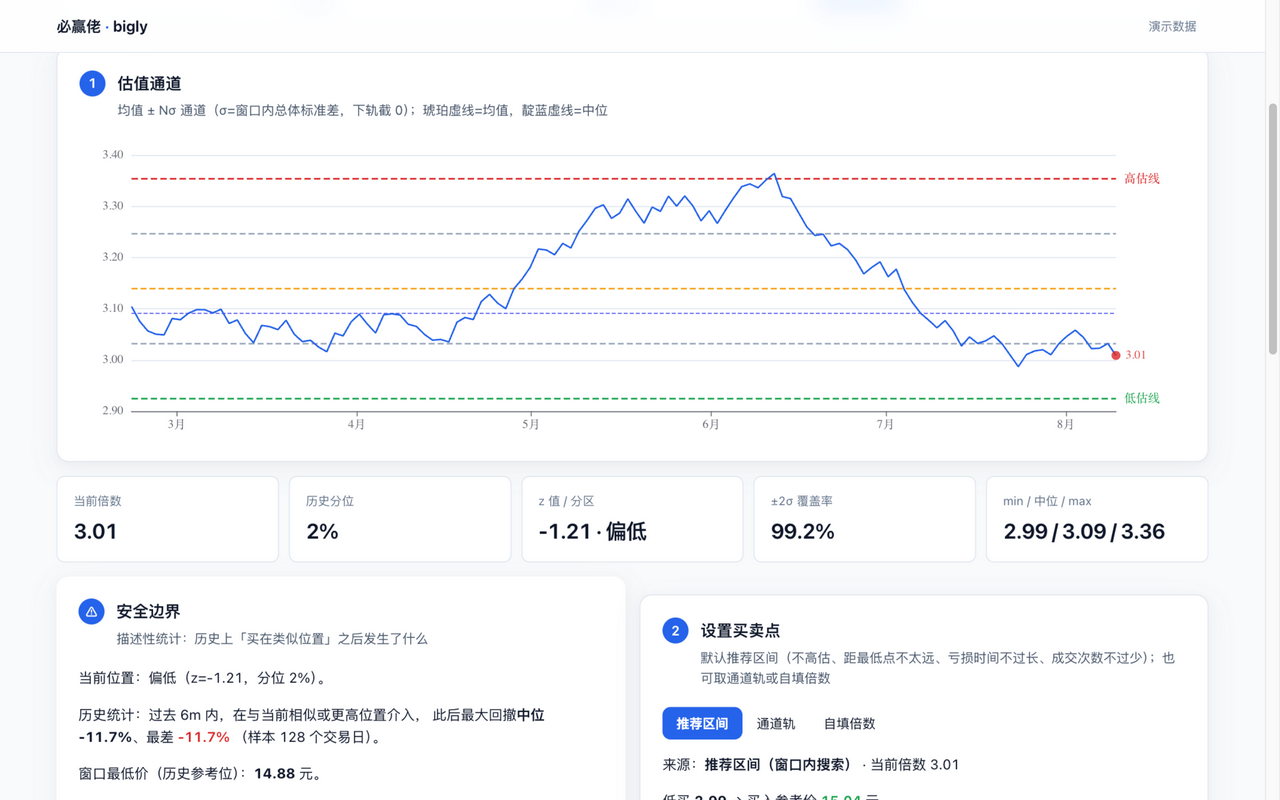
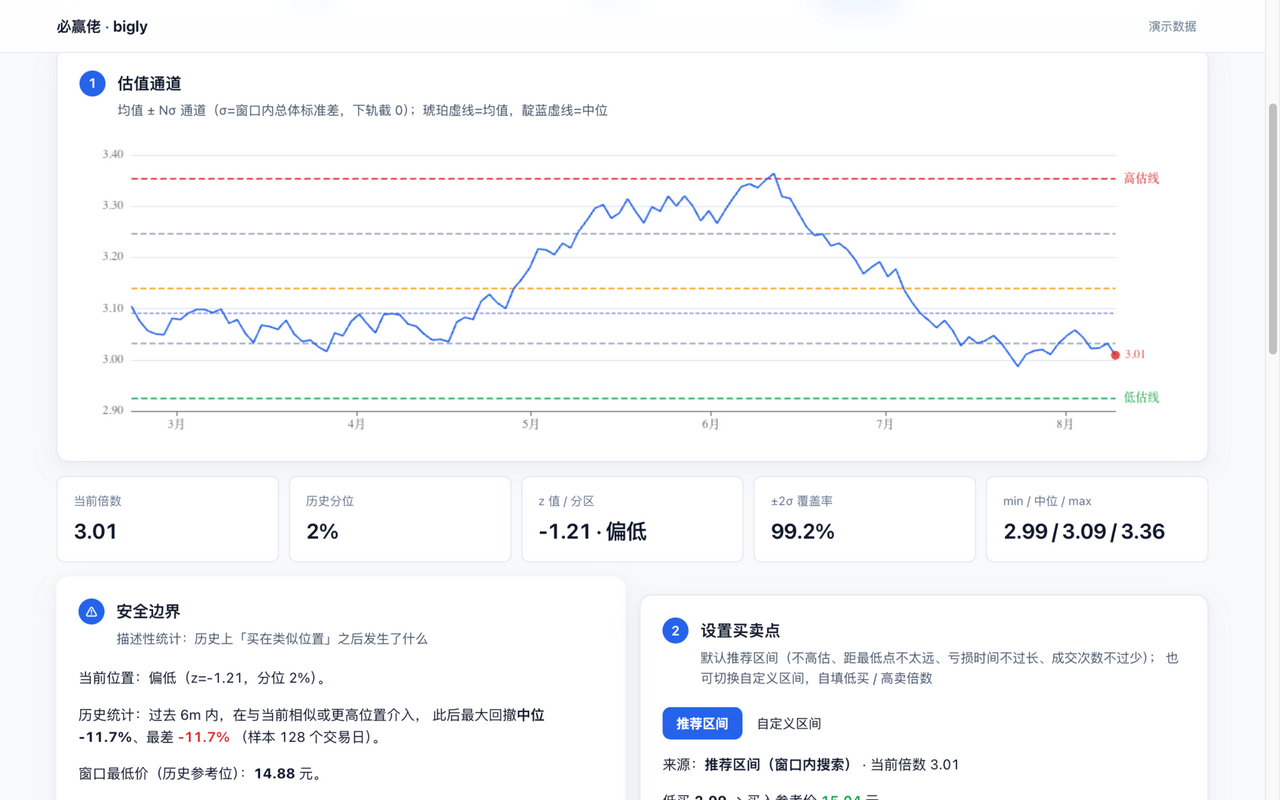
refactor(bigly): buy/sell source reduced to 推荐区间 + 自定义区间 (drop 通道轨)
- 「通道轨」选项移除：±2σ 轨固定换算实用意义有限（用户要求）
- 「自填倍数」改名「自定义区间」；推荐区间搜索失败的自动回退保留并如实标注
- 重截 shot-bigly.png（首页贴图同步两档按钮）
- demo 站同步重建，推送后 Pages 自动发布

diff --git a/src/bigwinner/bigly/web/bigly.html b/src/bigwinner/bigly/web/bigly.html
@@ -122,14 +122,14 @@
       <div class="step-head">
         <span class="step-badge">2</span>
         <div><h2>设置买卖点</h2>
-          <p class="step-sub">默认推荐区间（不高估、距最低点不太远、亏损时间不过长、成交次数不过少）；也可取通道轨或自填倍数</p>
+          <p class="step-sub">默认推荐区间（不高估、距最低点不太远、亏损时间不过长、成交次数不过少）；
+             也可切换自定义区间，自填低买 / 高卖倍数</p>
         </div>
       </div>
       <div style="margin-bottom:10px">
         <span class="seg" id="seg-source">
           <button data-v="suggest" class="active">推荐区间</button>
-          <button data-v="channel">通道轨</button>
-          <button data-v="user">自填倍数</button>
+          <button data-v="user">自定义区间</button>
         </span>
       </div>
       <div id="user-inputs" style="display:none;margin-bottom:10px">
@@ -441,10 +441,10 @@ function renderLevels(){
   } else if(source === "user"){
     buy = $("in-low").value ? L.buy_price / L.low_multiple * parseFloat($("in-low").value) : L.buy_price;
     sell = $("in-high").value ? L.sell_price / L.high_multiple * parseFloat($("in-high").value) : L.sell_price;
-    srcLabel = "自填倍数";
+    srcLabel = "自定义区间";
   } else {
     buy = L.buy_price; sell = L.sell_price;
-    srcLabel = "通道轨（估值数据）";
+    srcLabel = "通道轨（窗口内未找到满足约束的推荐组合）";
   }
   const dB = buy ? buy / state.last_close - 1 : null;
   const dS = sell ? sell / state.last_close - 1 : null;

diff --git a/CHANGELOG.md b/CHANGELOG.md
@@ -23,6 +23,10 @@
 
 ### Changed
 
+- **买卖点设置收敛为两档**（用户要求）：移除「通道轨」选项——它只是通道 ±2σ 轨的
+  固定换算，实用意义有限；保留**推荐区间**（默认，窗口内搜索）与**自定义区间**
+  （原「自填倍数」改名，自填低买/高卖倍数）。推荐区间搜索失败的自动回退仍走通道轨
+  并如实标注来源，算法说明同步更新。
 - `TOOLS` 注册表支持可选 `web_dir` 键（页面不在收息佬包 web/ 下时指到别处），
   `/api/tools` 输出继续隐藏 `page`/`web_dir` 内部键。
 
